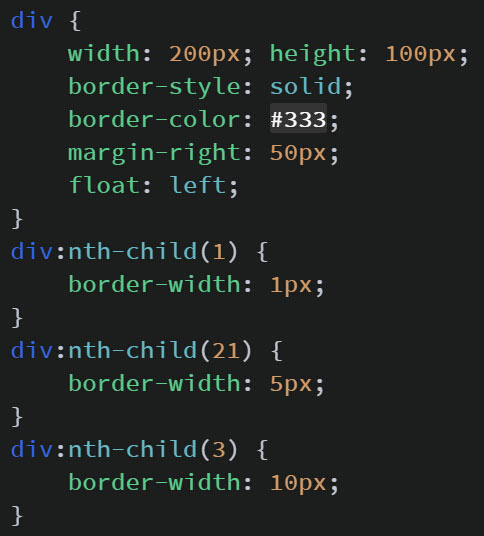
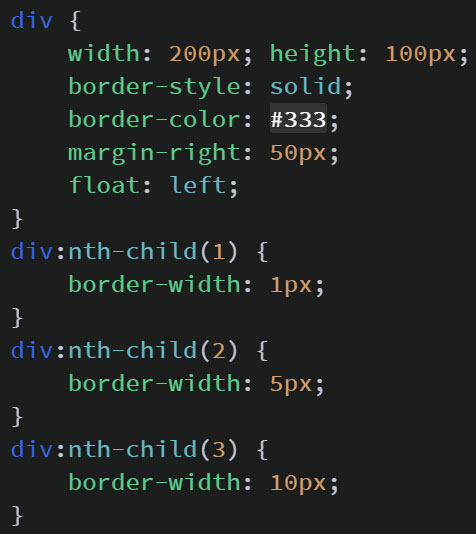
修改了代码中的错误和对应截图的错误

diff --git a/html-pages/css/codeEffect/code-59.html b/html-pages/css/codeEffect/code-59.html
@@ -17,7 +17,7 @@
         div:nth-child(1) {
             border-width: 1px;
         }
-        div:nth-child(21) {
+        div:nth-child(2) {
             border-width: 5px;
         }
         div:nth-child(3) {
